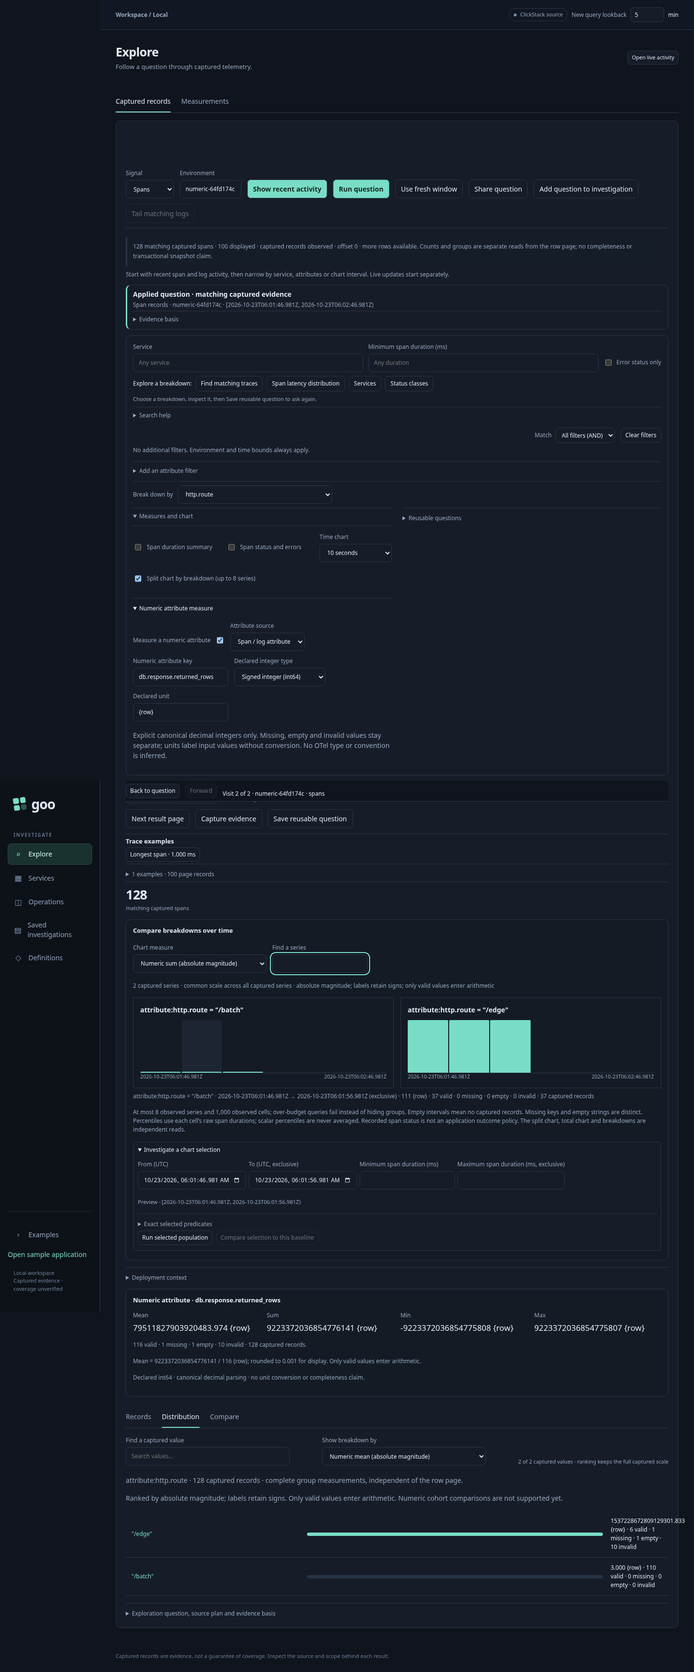
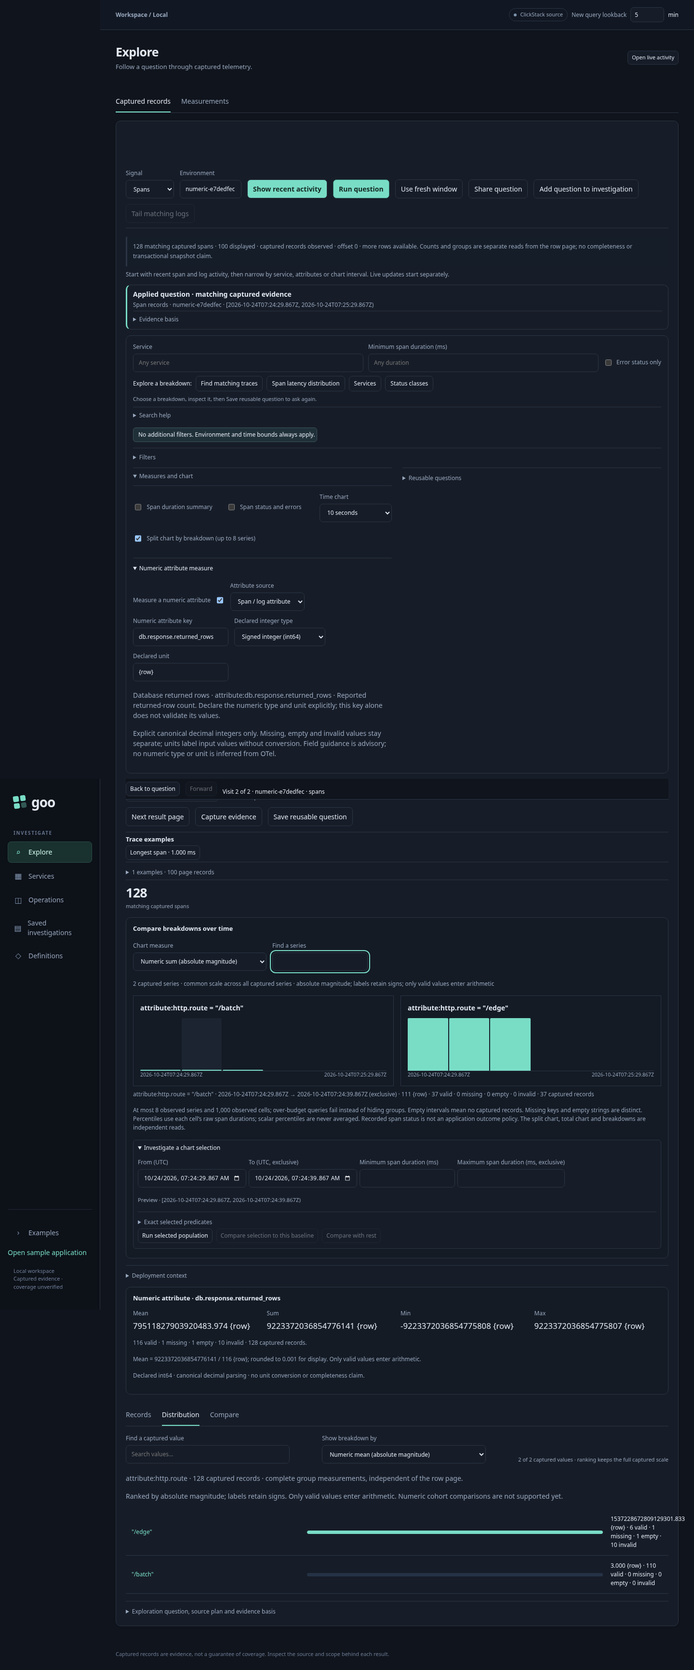
Guide numeric bindings with scoped exact field suggestions

diff --git a/ui/exploration.js b/ui/exploration.js
@@ -30,7 +30,7 @@
  const statusLabel=node('label');statusLabel.className='span-summary-control';const statusInput=node('input');statusInput.type='checkbox';statusInput.id=prefix+'exploreSpanStatus';statusInput.disabled=readOnly;statusLabel.append(statusInput,document.createTextNode('Span status and errors'));statusInput.onchange=()=>change();
  const bucketLabel=node('label','Time chart');const bucketInput=node('select');bucketInput.id=prefix+'exploreBucket';for(const [value,title] of [['0','Off'],['1000','1 second'],['10000','10 seconds'],['60000','1 minute'],['300000','5 minutes']]){const option=node('option',title);option.value=value;bucketInput.append(option)}bucketInput.disabled=readOnly;bucketLabel.append(bucketInput);el('exploreBuilder').append(bucketLabel);bucketInput.onchange=()=>change();const measureControls=node('div',undefined,'controls measure-controls');const measureHeading=node('h3','Measures and chart');measureControls.append(summaryLabel,statusLabel,bucketLabel);el('exploreBuilder').append(measureHeading,measureControls);
  const measures=ui.disclosure('Measures and chart',[measureControls]);measures.id=prefix+'measureComposer';measureHeading.remove();el('exploreBuilder').append(measures);
- const numericControls=global.GooNumericMeasures.mountControls(measures,{prefix,readOnly,change:()=>{change();numericControls.populate(inventory)}});
+ const numericControls=global.GooNumericMeasures.mountControls(measures,{prefix,readOnly,change:()=>{const fields=numericControls.suggestions();change();numericControls.populate(fields)}});
  const splitLabel=node('label');splitLabel.className='split-chart-control';const splitInput=node('input');splitInput.type='checkbox';splitInput.id=prefix+'exploreGroupTimeSeries';splitInput.disabled=readOnly;splitLabel.append(splitInput,document.createTextNode('Split chart by breakdown (up to 8 series)'));splitInput.onchange=()=>change();measureControls.append(splitLabel);
  const library=node('details');library.hidden=readOnly;library.className='reusable-questions';library.innerHTML='<summary>Reusable questions</summary><p>Saved telemetry packages reuse filters, measures and chart settings with a fresh window. They do not reopen frozen evidence.</p><div class="controls"><label>Find a question<input id="questionLibrarySearch" type="search"></label><button id="questionLibraryRefresh">Load saved questions</button></div><p id="questionLibraryStatus" role="status"></p><div id="questionLibraryRows"></div>';el('exploreBuilder').append(library);global.GooDOM?.namespace(library,prefix);let libraryGeneration=0,libraryItems=[];
  const questionLibrary=global.GooDefinitionLibrary.mount(el('questionLibraryRows'),{onSelectionChange:key=>{libraryGeneration++;el('questionLibraryStatus').textContent=key?'Revision selected. Run explicitly to read a fresh source window.':'Select a revision before running a fresh question.'},describe:item=>({family:'record',revision:item.revision,name:item.definition.name,title:item.definition.title,summary:item.definition.source.signal+' · '+item.definition.source.environment,search:[item.definition.title,item.definition.name,item.definition.source.environment,item.definition.source.signal,item.revision].join(' ')}),detail:item=>{const body=node('div'),run=node('button','Run '+item.definition.name);body.append(node('p',item.definition.lookbackMinutes+' min default lookback · Run reads a fresh source window, not saved evidence.'),run);run.onclick=async()=>{const g=++libraryGeneration;run.disabled=true;el('questionLibraryStatus').textContent='Resolving a fresh question window…';try{const response=await fetch('/api/telemetry-packages/plan',{method:'POST',headers:{'Content-Type':'application/json'},body:JSON.stringify({definition:item.definition})}),p=await response.json();if(g!==libraryGeneration||!active())return;if(!response.ok)throw Error(p.error);if(p.revision!==item.revision)throw Error('Resolved definition revision differs from selection.');global.dispatchEvent(new CustomEvent('goo:apply-telemetry-package',{detail:p}));el('questionLibraryStatus').textContent='Opened '+item.definition.title+' with a fresh source window.'}catch(e){if(g===libraryGeneration&&active())el('questionLibraryStatus').textContent='Question unavailable · '+e.message}finally{run.disabled=false}};return body}});
@@ -54,8 +54,8 @@
   function withFilters(q){if(filterError)throw Error(filterError);const where=draftWhere();global.GooFilterEditor.validate(where,q.signal);return {...q,reportedEdge:edgeScope?structuredClone(edgeScope):undefined,numeric:numericControls.get(),groupTimeSeries:splitInput.checked||undefined,bucketMs:Number(bucketInput.value)||undefined,spanStatus:el('exploreSignal').value==='spans'&&statusInput.checked||undefined,summary:el('exploreSignal').value==='spans'&&summaryInput.checked?'span-duration':undefined,where:global.GooFilterEditor.normalize(where),groupBy:filterEditor.grouping()};}
   async function fetchQuery(q,signal){const response=await global.GooQueries.post('/api/explore',q,signal);const data=await response.json();if(!response.ok)throw Error(data.error);return data;}
   function paint(data,q){el('exploreStatus').state=data.state==='changed_between_reads'?'partial':data.state==='no_data'?'empty':'unknown';numericControls.set(data.question.numeric);deployments.setQuestion(data.question);bucketInput.value=String(data.question.bucketMs||0);splitInput.checked=!!data.question.groupTimeSeries;summaryInput.checked=data.question.summary==='span-duration';statusInput.checked=!!data.question.spanStatus;question=data.question;lastResult=data;filterEditor.setGrouping(data.question.groupBy||[]);filterEditor.setSuggestions({...global.GooAttributes.suggestionData(data.rows,data.fields),label:'Applied '+q.signal+' · '+q.environment+' · '+new Date(q.fromMs).toISOString()+' → '+new Date(q.toMs).toISOString()});el('exploreCreatePackage').disabled=false;el('exploreSaveCapture').disabled=readOnly;populate(data.fields);suggest(data.fields);distributions.render(data);global.GooTraceJourney.examples(examplesHost,data,{openTrace:(id,anchor,opener)=>openTrace(data.question,id,anchor,data.basis,opener)});if(initialBaseline){distributions.setBaseline(initialBaseline);initialBaseline=null}el('exploreStatus').textContent=`${data.count} matching captured ${q.signal} · ${data.rows.length} displayed · ${data.state==='changed_between_reads'?'source reads changed; rerun before treating the results as one population':data.state==='no_data'?'no captured records in count read':'captured records observed'} · offset ${q.offset}${data.hasMore?' · more rows available':''}${q.offset>=1000&&data.hasMore?' · paging budget reached; narrow query':''}${data.fieldsLimited?' · field discovery limited; absence from this list is not absence from data':''}. Counts and groups are separate reads from the row page; no completeness or transactional snapshot claim.`;el('exploreNext').disabled=!data.hasMore||q.offset>=1000;table(el('exploreRows'),data.rows,q.signal,data.question,data.basis,{resultToken:readOnly?null:data.resultToken});recordResults.groups(el('exploreGroups'),data);el('exploreExplain').textContent=JSON.stringify({question:q,basis:data.basis,plan:data.plan,numeric:data.numeric,duration:data.duration,spanStatus:data.spanStatus,groups:data.groups,timeSeries:data.timeSeries,groupedTimeSeries:data.groupedTimeSeries,warnings:data.warnings},null,2);}
-  async function run(q){filterEditor.setGroupingFields([]);valueLookup?.invalidate();filterEditor.setSuggestions();population?.invalidate();tail?.reset();let token;try{token=session.start(q)}catch(e){el('exploreStatus').textContent=e.message;return}renderSession();recipeUI?.invalidate();deployments.invalidate();runController?.abort();runController=new AbortController();const controller=runController;el('exploreCancel').hidden=false;const g=generation=token;if(!readOnly){remember(q)}lastResult=null;el('exploreSaveCapture').disabled=true;el('discoverySuggestions').replaceChildren();el('exploreCreatePackage').disabled=true;distributions.invalidate();el('exploreRows').replaceChildren();el('exploreGroups').replaceChildren();recordResults.invalidate();el('surroundingContext').hidden=true;el('exploreContext').hidden=true;el('exploreRun').disabled=true;el('exploreNext').disabled=true;el('exploreStatus').state='loading';el('exploreStatus').textContent='Reading captured records…';try{const data=await fetchQuery(q,controller.signal);if(!session.publish(g,data))return;paint(data,q);renderSession()}catch(e){if(session.fail(g)){distributions.invalidate();renderSession();el('exploreRows').replaceChildren();el('exploreGroups').replaceChildren();el('exploreExplain').textContent='';el('exploreStatus').state='unavailable';el('exploreStatus').textContent='Evidence unavailable · '+e.message}}finally{if(g===generation){el('exploreRun').disabled=false;el('exploreCancel').hidden=true}}}
-  function change(scopeChanged=false){filterEditor.setGroupingFields([]);valueLookup?.invalidate();filterEditor.setSuggestions();population?.invalidate();tail?.reset();const shared=el('exploreQuestionLink');if(shared)shared.hidden=true;generation=session.edit(scopeChanged);renderSession();recipeUI?.invalidate();deployments.invalidate();runController?.abort();el('exploreCancel').hidden=true;lastResult=null;el('exploreSaveCapture').disabled=true;el('exploreCreatePackage').disabled=true;distributions.invalidate({scopeChanged});recordResults.invalidate();el('surroundingContext').hidden=true;el('discoverySuggestions').replaceChildren();question=null;el('exploreRun').disabled=!!filterError;el('exploreNext').disabled=true;el('exploreRows').replaceChildren();el('exploreGroups').replaceChildren();el('exploreContext').hidden=true;el('exploreExplain').textContent='';el('exploreStatus').state='unknown';el('exploreStatus').textContent='Question changed. Draft changes — Run question to apply.';}
+  async function run(q){numericControls.populate([]);filterEditor.setGroupingFields([]);valueLookup?.invalidate();filterEditor.setSuggestions();population?.invalidate();tail?.reset();let token;try{token=session.start(q)}catch(e){el('exploreStatus').textContent=e.message;return}renderSession();recipeUI?.invalidate();deployments.invalidate();runController?.abort();runController=new AbortController();const controller=runController;el('exploreCancel').hidden=false;const g=generation=token;if(!readOnly){remember(q)}lastResult=null;el('exploreSaveCapture').disabled=true;el('discoverySuggestions').replaceChildren();el('exploreCreatePackage').disabled=true;distributions.invalidate();el('exploreRows').replaceChildren();el('exploreGroups').replaceChildren();recordResults.invalidate();el('surroundingContext').hidden=true;el('exploreContext').hidden=true;el('exploreRun').disabled=true;el('exploreNext').disabled=true;el('exploreStatus').state='loading';el('exploreStatus').textContent='Reading captured records…';try{const data=await fetchQuery(q,controller.signal);if(!session.publish(g,data))return;paint(data,q);renderSession()}catch(e){if(session.fail(g)){distributions.invalidate();renderSession();el('exploreRows').replaceChildren();el('exploreGroups').replaceChildren();el('exploreExplain').textContent='';el('exploreStatus').state='unavailable';el('exploreStatus').textContent='Evidence unavailable · '+e.message}}finally{if(g===generation){el('exploreRun').disabled=false;el('exploreCancel').hidden=true}}}
+  function change(scopeChanged=false){numericControls.populate([]);filterEditor.setGroupingFields([]);valueLookup?.invalidate();filterEditor.setSuggestions();population?.invalidate();tail?.reset();const shared=el('exploreQuestionLink');if(shared)shared.hidden=true;generation=session.edit(scopeChanged);renderSession();recipeUI?.invalidate();deployments.invalidate();runController?.abort();el('exploreCancel').hidden=true;lastResult=null;el('exploreSaveCapture').disabled=true;el('exploreCreatePackage').disabled=true;distributions.invalidate({scopeChanged});recordResults.invalidate();el('surroundingContext').hidden=true;el('discoverySuggestions').replaceChildren();question=null;el('exploreRun').disabled=!!filterError;el('exploreNext').disabled=true;el('exploreRows').replaceChildren();el('exploreGroups').replaceChildren();el('exploreContext').hidden=true;el('exploreExplain').textContent='';el('exploreStatus').state='unknown';el('exploreStatus').textContent='Question changed. Draft changes — Run question to apply.';}
   function discoveryMode(){summaryLabel.hidden=statusLabel.hidden=el('exploreSignal').value!=='spans';const logs=el('exploreSignal').value==='logs';el('discoveryHeading').textContent=logs?'Search logs':'Find spans and traces';el('discoveryHint').textContent=logs?'Read messages, follow exact trace IDs or open time context.':'Matching spans lead to trace IDs and captured duration distributions.';for(const n of container.querySelectorAll('.log-search-control'))n.hidden=!logs;for(const n of container.querySelectorAll('.span-search-control'))n.hidden=logs;el('discoverySuggestions').replaceChildren()}
   function suggest(fields){const host=el('discoverySuggestions');host.replaceChildren(node('span','Explore a breakdown:'));const signal=question?.signal||el('exploreSignal').value;
    const candidates=signal==='spans'?[['column','trace_id','Find matching traces'],['column','duration_bucket','Span latency distribution'],['column','service','Services'],['column','status_class','Status classes']]:[['column','severity','Severity'],['column','service','Services'],['attribute','exception.type','Exception types']];

diff --git a/journeys/numeric-measures.spec.js b/journeys/numeric-measures.spec.js
@@ -2,7 +2,7 @@ const {openMeasures}=require('./support/explore');
 const {test,expect}=require('@playwright/test'),{randomBytes}=require('node:crypto'),fs=require('node:fs/promises'),path=require('node:path');const {verifyWithGo,startBombadil}=require('./support/cross-app');const base='http://127.0.0.1:8088';
 async function json(r){expect(r.ok(),await r.text()).toBe(true);return r.json()}
 test('44 measure ordinary numeric attributes, explain coverage, capture and reuse',async({page,request})=>{
- test.setTimeout(240000);const environment='numeric-'+randomBytes(4).toString('hex'),now=Date.now(),from=now-60000,trace=randomBytes(16).toString('hex');const values=['9223372036854775807','9223372036854775807','-9223372036854775808','0','-5','10',null,'','01','-0','+1','1e3','18446744073709551615','18446744073709551616','-9223372036854775809','NaN',' 1','1.0',...Array(110).fill('3')];const attrs=o=>Object.entries(o).map(([key,value])=>({key,value:{stringValue:value}}));
+ test.setTimeout(240000);page.setDefaultTimeout(15000);const environment='numeric-'+randomBytes(4).toString('hex'),now=Date.now(),from=now-60000,trace=randomBytes(16).toString('hex');const values=['9223372036854775807','9223372036854775807','-9223372036854775808','0','-5','10',null,'','01','-0','+1','1e3','18446744073709551615','18446744073709551616','-9223372036854775809','NaN',' 1','1.0',...Array(110).fill('3')];const attrs=o=>Object.entries(o).map(([key,value])=>({key,value:{stringValue:value}}));
  const resource={attributes:attrs({'service.name':'ordinary-query','deployment.environment.name':environment,'custom.offset':'-7'})};
  const spanAttrs=(v,i)=>attrs({'http.route':i<18?'/edge':'/batch',...(v===null?{}:{'db.response.returned_rows':v})});
  const spans=values.map((v,i)=>{const start=BigInt(from+1000+(i%3)*10000)*1000000n+BigInt(i);return {traceId:trace,spanId:(i+1).toString(16).padStart(16,'0'),name:'database response',kind:3,startTimeUnixNano:String(start),endTimeUnixNano:String(start+1000000n),attributes:spanAttrs(v,i)}});
@@ -11,7 +11,7 @@ test('44 measure ordinary numeric attributes, explain coverage, capture and reus
  const initial={signal:'spans',environment,fromMs:from,toMs:now,limit:100,offset:0,bucketMs:10000,groupTimeSeries:true,groupBy:[{kind:'attribute',key:'http.route'}]};
  await expect.poll(async()=>{const r=await request.post(base+'/api/explore',{data:initial});return r.ok()&&(await r.json()).count},{timeout:45000,intervals:[1000]}).toBe('128');
  let reads=0;const errors=[];page.on('pageerror',e=>errors.push(e.message));page.on('request',r=>{if(r.method()==='POST'&&['/api/explore','/api/captures','/api/measurements'].some(p=>r.url().endsWith(p)))reads++});await page.goto(base+'/#questions');await page.locator('#minutes').fill('5');await page.locator('#minutes').blur();let response=page.waitForResponse(r=>r.url().endsWith('/api/explore'));await page.evaluate(q=>dispatchEvent(new CustomEvent('goo:open-question',{detail:q})),initial);await response;await expect(page.locator('#exploreCount')).toContainText('128');
- await page.locator('#baselinePin').click();await page.locator('#baselineClear').locator('xpath=ancestor::details[1]').locator(':scope > summary').click();await expect(page.locator('#baselineClear')).toBeVisible();await openMeasures(page);await page.locator('#measureComposer > .numeric-binding-editor > summary').click();await page.locator('#numericEnabled').check();await page.locator('#numericKey').fill('db.response.returned_rows');await page.locator('#numericType').selectOption('int64');await page.locator('#numericUnit').fill('{row}');response=page.waitForResponse(r=>r.url().endsWith('/api/explore'));await page.locator('#exploreRun').click();const result=await json(await response),q=result.question;expect(result.count).toBe('128');expect(result.rows).toHaveLength(100);expect(result.numeric).toMatchObject({valid:'116',missing:'1',empty:'1',invalid:'10',sum:'9223372036854776141'});expect(result.groupedTimeSeries).toHaveLength(2);await expect(page.locator('#numericSummary')).toContainText('116 valid · 1 missing · 1 empty · 10 invalid');
+ await page.locator('#baselinePin').click();await page.locator('#baselineClear').locator('xpath=ancestor::details[1]').locator(':scope > summary').click();await expect(page.locator('#baselineClear')).toBeVisible();await openMeasures(page);await page.locator('#measureComposer > .numeric-binding-editor > summary').click();const authoringReads=reads;await page.locator('#numericEnabled').check();await expect(page.locator('#numericKeys option[value="db.response.returned_rows"]')).toHaveAttribute('label',/Database returned rows/);await page.locator('#numericKind').selectOption('resource');await expect(page.locator('#numericKeys option[value="custom.offset"]')).toHaveCount(1);await expect(page.locator('#numericKeys option[value="db.response.returned_rows"]')).toHaveCount(0);await page.locator('#numericKind').selectOption('attribute');await expect(page.locator('#numericType')).toHaveValue('int64');await expect(page.locator('#numericUnit')).toHaveValue('');await page.locator('#numericKey').fill('db.response.returned_rows');await expect(page.locator('#numericFieldGuidance')).toContainText('Declare the numeric type and unit explicitly');expect(reads).toBe(authoringReads);await page.locator('#numericType').selectOption('int64');await page.locator('#numericUnit').fill('{row}');response=page.waitForResponse(r=>r.url().endsWith('/api/explore'));await page.locator('#exploreRun').click();const result=await json(await response),q=result.question;expect(q.numeric).toEqual({field:{kind:'attribute',key:'db.response.returned_rows'},type:'int64',unit:'{row}',parse:'canonical-decimal'});expect(q.fromMs).toBe(initial.fromMs);expect(q.toMs).toBe(initial.toMs);expect(result.count).toBe('128');expect(result.rows).toHaveLength(100);expect(result.numeric).toMatchObject({valid:'116',missing:'1',empty:'1',invalid:'10',sum:'9223372036854776141'});expect(result.groupedTimeSeries).toHaveLength(2);await expect(page.locator('#numericSummary')).toContainText('116 valid · 1 missing · 1 empty · 10 invalid');
  await expect(page.locator('#baselineClear')).toBeHidden();await expect(page.locator('#baselineStatus')).toContainText('Numeric cohort comparisons are not supported');
  const plan=await json(await request.post(base+'/api/telemetry-packages/draft',{data:{question:q,name:environment,title:'Database response values',lookbackMinutes:5}}));expect(plan.measurePlan.numeric).toEqual(q.numeric);
  const before=reads;await page.locator('#distributionMeasure').selectOption('numeric-mean');await page.getByLabel('Grouped chart measure',{exact:true}).selectOption('numeric-sum');await page.getByLabel('Find a captured series',{exact:true}).fill('/batch');await expect(page.locator('#timeChart .series-card:visible')).toHaveCount(1);await page.locator('#timeChart .series-card:visible .time-bar[data-state=observed]').first().click();await expect(page.locator('#timeChart .series-interval-detail')).toContainText('{row}');await page.getByLabel('Find a captured series',{exact:true}).fill('');expect(reads).toBe(before);const afterLocal=reads;await page.screenshot({path:'docs/journeys/screenshots/44a-numeric-coverage-and-series.png',fullPage:true});
@@ -20,6 +20,8 @@ test('44 measure ordinary numeric attributes, explain coverage, capture and reus
  const unsigned=await json(await request.post(base+'/api/explore',{data:{...q,numeric:{...q.numeric,type:'uint64'}}}));
  let logs;await expect.poll(async()=>{const r=await request.post(base+'/api/explore',{data:{...q,signal:'logs'}});if(r.ok())logs=await r.json();return logs?.count},{timeout:45000,intervals:[1000]}).toBe('128');expect(logs.numeric).toEqual(result.numeric);
  const resourceResult=await json(await request.post(base+'/api/explore',{data:{...q,numeric:{field:{kind:'resource',key:'custom.offset'},type:'int64',unit:'1',parse:'canonical-decimal'}}}));expect(resourceResult.numeric).toMatchObject({valid:'128',sum:'-896',min:'-7',max:'-7'});
+ const beforeScopeEdit=reads;await page.locator('#exploreEnvironment').fill(environment+'-other');await expect(page.locator('#numericKeys option')).toHaveCount(0);await expect(page.locator('#numericKey')).toHaveValue('db.response.returned_rows');expect(reads).toBe(beforeScopeEdit);await page.locator('#exploreEnvironment').fill(environment);await expect(page.locator('#numericKeys option')).toHaveCount(0);
+ let release,arrive;const held=new Promise(r=>arrive=r),gate=new Promise(r=>release=r);await page.route('**/api/explore',async route=>{const upstream=await route.fetch();arrive();await gate;try{await route.fulfill({response:upstream})}catch{}});await page.locator('#exploreRun').click();await held;await page.locator('#exploreEnvironment').fill(environment+'-other');release();await page.unrouteAll({behavior:'wait'});await expect(page.locator('#exploration')).toHaveAttribute('data-question-phase','draft');await expect(page.locator('#numericKeys option')).toHaveCount(0);await page.route('**/api/explore',route=>route.abort('failed'));await page.locator('#exploreRun').click();await expect(page.locator('#exploration')).toHaveAttribute('data-question-phase','failed');await expect(page.locator('#numericKeys option')).toHaveCount(0);await page.unrouteAll({behavior:'wait'});
  const beforeReopen=reads;await page.goto(base+'/#capture='+saved.receipt.id);await expect(page.locator('#savednumericSummary')).toContainText('116 valid');const reopened=await json(await request.get(base+'/api/captures/'+saved.receipt.id));expect(reopened).toEqual(saved);expect(reads).toBe(beforeReopen);const afterReopen=reads;await page.locator('#savedresultDistribution').click();await page.setViewportSize({width:390,height:844});expect(await page.evaluate(()=>document.documentElement.scrollWidth<=innerWidth)).toBe(true);await page.screenshot({path:'docs/journeys/screenshots/44c-mobile-numeric-evidence.png',fullPage:true});expect(errors).toEqual([]);
  const dir=path.resolve('artifacts/numeric-measures',environment);await fs.mkdir(dir,{recursive:true});const ledger=path.join(dir,'ledger.json');await fs.writeFile(ledger,JSON.stringify({plan,result,saved,reused,reopened,unsigned,logs,resourceResult,values,times:spans.map(s=>s.startTimeUnixNano),before,afterLocal,beforeReopen,afterReopen}));await verifyWithGo(dir,'TestQuintNumericLiveLedger',{GOO_NUMERIC_LEDGER:ledger});
  if(process.env.GOO_NUMERIC_BOMBADIL==='1'){const actor=await startBombadil({dir:path.join(dir,'bombadil'),url:base+'/#capture='+saved.receipt.id,specification:'verification/bombadil/numeric-measures.ts',seconds:30});try{await actor.finish()}finally{await actor.stop()}}

diff --git a/ui/numeric-measures.js b/ui/numeric-measures.js
@@ -4,13 +4,16 @@
  function format(summary,metric='mean') {const v=value(summary,metric);if(!v)return 'Unavailable';if(metric!=='mean')return String(v.n)+' '+summary.unit;const negative=v.n<0n,n=negative?-v.n:v.n,rounded=(n*1000n+v.d/2n)/v.d;return (negative&&rounded!==0n?'−':'')+String(rounded/1000n)+'.'+String(rounded%1000n).padStart(3,'0')+' '+summary.unit}
  function magnitude(v){return v?{n:v.n<0n?-v.n:v.n,d:v.d}:null}
  function coverage(s){return s.valid+' valid · '+s.missing+' missing · '+s.empty+' empty · '+s.invalid+' invalid'}
+ const fieldsAPI=()=>typeof module!=='undefined'?require('./field-presentation'):global.GooFieldPresentation;
+ function fieldSuggestions(fields=[],kind='attribute'){const seen=new Set();return fields.filter(f=>f&&['attribute','resource'].includes(kind)&&f.kind===kind&&typeof f.key==='string'&&f.key.length&&new TextEncoder().encode(f.key).length<=128&&!f.key.includes('\0')).filter(f=>{if(seen.has(f.key))return false;seen.add(f.key);return true}).map(field=>{const hint=fieldsAPI()?.hint(field);return {field:structuredClone(field),label:(hint?hint.label+(hint.legacy?' (legacy)':'')+' · ':'')+field.kind+':'+field.key,...(hint?{description:hint.description}:{})}})}
  function mountControls(host,{prefix='',readOnly=false,change}={}){
-  const node=(tag,text)=>{const n=document.createElement(tag);if(text!==undefined)n.textContent=text;return n},details=node('details');details.className='numeric-binding-editor';details.append(node('summary','Numeric attribute measure'));const controls=node('div');controls.className='controls';const inputs={};
-  function input(key,title,type,options){const label=node('label',title),i=node(type==='select'?'select':'input');i.id=prefix+'numeric'+key;i.disabled=readOnly;if(type==='checkbox'){i.type='checkbox';label.className='split-chart-control'}if(options)for(const [value,text]of options){const o=node('option',text);o.value=value;i.append(o)}label.append(i);controls.append(label);inputs[key]=i;if(type==='select'||type==='checkbox')i.onchange=()=>change();else i.oninput=()=>change();return i}
-  input('Enabled','Measure a numeric attribute','checkbox');input('Kind','Attribute source','select',[['attribute','Span / log attribute'],['resource','Resource attribute']]);const key=input('Key','Numeric attribute key','text');key.placeholder='e.g. db.response.returned_rows';const list=node('datalist');list.id=prefix+'numericKeys';key.setAttribute('list',list.id);controls.append(list);input('Type','Declared integer type','select',[['int64','Signed integer (int64)'],['uint64','Unsigned integer (uint64)']]);const unit=input('Unit','Declared unit','text');unit.placeholder='e.g. {row} or 1';
-  details.append(controls,node('p','Explicit canonical decimal integers only. Missing, empty and invalid values stay separate; units label input values without conversion. No OTel type or convention is inferred.'));host.append(details);
-  return {get(){if(!inputs.Enabled.checked)return undefined;return {field:{kind:inputs.Kind.value,key:key.value},type:inputs.Type.value,unit:unit.value,parse:'canonical-decimal'}},set(b){inputs.Enabled.checked=!!b;inputs.Kind.value=b?.field.kind||'attribute';key.value=b?.field.key||'';inputs.Type.value=b?.type||'int64';unit.value=b?.unit||'';details.open=!!b},populate(fields){list.replaceChildren();for(const f of fields.filter(f=>f.kind===inputs.Kind.value)){const o=node('option');o.value=f.key;list.append(o)}}};
+  const node=(tag,text)=>{const n=document.createElement(tag);if(text!==undefined)n.textContent=text;return n},details=node('details');details.className='numeric-binding-editor';details.append(node('summary','Numeric attribute measure'));const controls=node('div');controls.className='controls';const inputs={};let suppliedFields=[];const guidance=node('p');guidance.className='numeric-field-guidance';guidance.id=prefix+'numericFieldGuidance';guidance.hidden=true;
+  function input(key,title,type,options){const label=node('label',title),i=node(type==='select'?'select':'input');i.id=prefix+'numeric'+key;i.disabled=readOnly;if(type==='checkbox'){i.type='checkbox';label.className='split-chart-control'}if(options)for(const [value,text]of options){const o=node('option',text);o.value=value;i.append(o)}label.append(i);controls.append(label);inputs[key]=i;if(type==='select'||type==='checkbox')i.onchange=()=>{refresh();change()};else i.oninput=()=>{refresh();change()};return i}
+  input('Enabled','Measure a numeric attribute','checkbox');input('Kind','Attribute source','select',[['attribute','Span / log attribute'],['resource','Resource attribute']]);const key=input('Key','Numeric attribute key','text');key.placeholder='e.g. db.response.returned_rows';const list=node('datalist');list.id=prefix+'numericKeys';key.setAttribute('list',list.id);key.setAttribute('aria-describedby',guidance.id);controls.append(list);input('Type','Declared integer type','select',[['int64','Signed integer (int64)'],['uint64','Unsigned integer (uint64)']]);const unit=input('Unit','Declared unit','text');unit.placeholder='e.g. {row} or 1';
+  function refresh(){list.replaceChildren();for(const item of fieldSuggestions(suppliedFields,inputs.Kind.value)){const option=node('option',item.label);option.value=item.field.key;option.label=item.label;list.append(option)}const hint=fieldsAPI()?.hint({kind:inputs.Kind.value,key:key.value});key.title=hint?hint.label+' · '+hint.description:'';guidance.hidden=!hint;guidance.textContent=hint?hint.label+' · '+inputs.Kind.value+':'+key.value+' · '+hint.description:''}
+  details.append(controls,guidance,node('p','Explicit canonical decimal integers only. Missing, empty and invalid values stay separate; units label input values without conversion. Field guidance is advisory; no numeric type or unit is inferred from OTel.'));host.append(details);
+  return {get(){if(!inputs.Enabled.checked)return undefined;return {field:{kind:inputs.Kind.value,key:key.value},type:inputs.Type.value,unit:unit.value,parse:'canonical-decimal'}},set(b){inputs.Enabled.checked=!!b;inputs.Kind.value=b?.field.kind||'attribute';key.value=b?.field.key||'';inputs.Type.value=b?.type||'int64';unit.value=b?.unit||'';details.open=!!b;refresh()},suggestions:()=>structuredClone(suppliedFields),populate(fields=[]){suppliedFields=structuredClone(fields);refresh()}};
  }
  function render(host,data){host.replaceChildren();host.hidden=!data.numeric;if(!data.numeric)return;const s=data.numeric,node=(tag,text)=>{const n=document.createElement(tag);n.textContent=text;return n};host.append(node('h3','Numeric attribute · '+data.question.numeric.field.key));const grid=document.createElement('dl');grid.className='duration-stat-grid';for(const [label,metric]of [['Mean','mean'],['Sum','sum'],['Min','min'],['Max','max']]){const cell=document.createElement('div');cell.append(node('dt',label),node('dd',format(s,metric)));grid.append(cell)}host.append(grid,node('p',coverage(s)+' · '+s.count+' captured records.'),node('p',s.valid==='0'?(s.state==='no_data'?'No captured records.':'No valid numeric values. Arithmetic is unavailable.'):'Mean = '+s.sum+' / '+s.valid+' '+s.unit+'; rounded to 0.001 for display. Only valid values enter arithmetic.'));host.append(node('p','Declared '+data.question.numeric.type+' · canonical decimal parsing · no unit conversion or completeness claim.'+(data.state==='changed_between_reads'?' Source reads disagree; rerun before treating totals and breakdowns as one population.':'')))}
- const api={value,format,magnitude,coverage,mountControls,render};if(typeof module!=='undefined')module.exports=api;else global.GooNumericMeasures=api;
+ const api={value,format,magnitude,coverage,fieldSuggestions,mountControls,render};if(typeof module!=='undefined')module.exports=api;else global.GooNumericMeasures=api;
 })(typeof window==='undefined'?globalThis:window);

diff --git a/tests/numeric-measures.test.js b/tests/numeric-measures.test.js
@@ -1,3 +1,4 @@
 const {test}=require('node:test'),assert=require('node:assert/strict');const numeric=require('../ui/numeric-measures.js');global.GooNumericMeasures=numeric;const distributions=require('../ui/distributions.js');
 test('numeric display retains exact signed integers and valid-only rational means',()=>{const s={valid:'2',sum:'-18446744073709551615',min:'-9223372036854775808',max:'1',unit:'1'};assert.equal(numeric.format(s,'sum'),'-18446744073709551615 1');assert.equal(numeric.format(s),'−9223372036854775807.500 1');assert.equal(numeric.format({...s,valid:'0'}),'Unavailable');assert.equal(numeric.format({...s,valid:'1',sum:'0'}),'0.000 1');assert.deepEqual(distributions.groupMetric({numeric:s},'numeric-mean'),{n:18446744073709551615n,d:2n});assert.equal(distributions.metricWidth(distributions.groupMetric({numeric:s},'numeric-mean'),{n:18446744073709551615n,d:1n}),'50.00')});
 test('numeric coverage reports all distinct exclusions',()=>{assert.equal(numeric.coverage({valid:'3',missing:'2',empty:'1',invalid:'4'}),'3 valid · 2 missing · 1 empty · 4 invalid')});
+test('numeric field guidance preserves exact namespaces and never declares types or units',()=>{const fields=[{kind:'attribute',key:'db.response.returned_rows'},{kind:'attribute',key:'http.method'},{kind:'resource',key:'http.method'},{kind:'column',key:'duration_ns'},{kind:'attribute',key:'db.response.returned_rows'}],before=structuredClone(fields),items=numeric.fieldSuggestions(fields,'attribute');assert.deepEqual(items.map(i=>i.field.key),['db.response.returned_rows','http.method']);assert.match(items[0].label,/Database returned rows/);assert.match(items[1].label,/legacy/);for(const item of items){assert.equal('type' in item,false);assert.equal('unit' in item,false)}assert.deepEqual(numeric.fieldSuggestions(fields,'resource').map(i=>i.field),[{kind:'resource',key:'http.method'}]);assert.deepEqual(numeric.fieldSuggestions(fields,'column'),[]);items[0].field.key='mutated';assert.deepEqual(fields,before);assert.deepEqual(numeric.fieldSuggestions([{kind:'attribute',key:'bad\0'}]),[])});

diff --git a/ui/field-presentation.js b/ui/field-presentation.js
@@ -17,6 +17,7 @@
   ['attribute','rpc.response.status_code','RPC response status','RPC','RPC response code; interpretation depends on the RPC system, not span status.'],
   ['attribute','db.system.name','Database system','Database','Database product, such as PostgreSQL or Redis.'],
   ['attribute','db.namespace','Database namespace','Database','Database namespace being accessed; interpretation depends on the database system.'],
+  ['attribute','db.response.returned_rows','Database returned rows','Database','Reported returned-row count. Declare the numeric type and unit explicitly; this key alone does not validate its values.'],
   ['attribute','db.operation.name','Database operation','Database','Reported database operation, such as SELECT or GET.'],
   ['attribute','db.collection.name','Database collection','Database','Collection or table being accessed, where reported.'],
   ['attribute','messaging.system','Messaging system','Messaging','Messaging product or system used for this operation.'],

diff --git a/docs/NUMERIC_ATTRIBUTE_PLANNING.md b/docs/NUMERIC_ATTRIBUTE_PLANNING.md
@@ -10,7 +10,7 @@ split charts and immutable captures. Native metric kernels remain separate.
 
 In Explore, expand **Numeric attribute measure** under Measures and chart. Enable
 it, choose record or resource attributes, enter a key, declare int64 or uint64 and
-a unit, then Apply question. Available keys are suggestions; custom keys can be
+a unit, then Run. Available keys are suggestions; custom keys can be
 entered even when bounded inventory did not discover them. Missing/empty/invalid
 values remain visible beside arithmetic. Units label inputs; no rescaling occurs.
 
@@ -131,3 +131,26 @@ This fixture is integration evidence, not production traffic or OTel completenes
 
 Next: multiple named measures, explicit decimal/float policies, unit conversions
 and numeric cohort comparisons. Databricks raw-source lowering remains future work.
+
+## Field guidance — reviewed 2026-10-24
+
+The numeric editor shares the field-presentation catalog while retaining its own
+explicit binding controls. Attribute and resource suggestions show readable labels
+and exact raw keys in separate namespaces; custom keys remain supported. The
+returned-row semantic-convention hint is advisory: neither numeric type nor unit
+is inferred. Binding-only edits preserve the numeric editor's detached suggestion
+snapshot. Population changes, new reads and failures clear suggestions; canceled
+responses cannot restore a prior scope's inventory. Editing does not read sources.
+
+```mermaid
+flowchart LR
+  R[Successful scoped read] --> I[Detached field inventory]
+  I --> H[Exact namespace and readable hint]
+  H --> E[Explicit key / type / unit]
+  E --> G[Existing Go validation and plan]
+  S[Scope change / new read / failure] --> C[Withdraw suggestions]
+```
+
+Storyboard 44 now exercises namespace switching, unchanged explicit defaults,
+source-free edits, cancellation of an actual held response, failed-read withdrawal
+and immutable capture reuse. Updated frames 44a–44c show the running application.

diff --git a/VALIDATION.md b/VALIDATION.md
@@ -7945,3 +7945,17 @@ telemetry, captures, XTDB and volumes are preserved. Tests remove only their own
 stores. Compact ledgers/results remain under artifacts/composed-grouping,
 artifacts/population-breakdown, artifacts/facet-selection and
 artifacts/grouping-consolidation-round.
+
+
+## 2026-10-24 — M1 numeric field guidance (independently approved)
+
+Node syntax and numeric-measures, OTel hints and field-presentation suites pass.
+The real collector/ClickHouse journey `journeys/numeric-measures.spec.js` passes
+with `GOO_NUMERIC_BOMBADIL=1` (1 journey, 1.4 minutes). It checks exact namespace
+labels/raw keys, explicit unchanged type/unit, source-free authoring, full binding
+and fixed bounds, scope withdrawal, canceled actual upstream response, failed-read
+withdrawal, numeric coverage and immutable capture/reuse. Native
+`TestQuintNumericLiveLedger`, its rejecting controls, and saved-numeric Bombadil
+pass; compact evidence is in `artifacts/numeric-measures/numeric-e7dedfec`.
+Frames 44a–44c are regenerated. Independent milestone review approved code and
+final evidence with no blocking findings. No API/schema or backend change.

diff --git a/README.md b/README.md
@@ -3,6 +3,11 @@
 **Turn telemetry into shared definitions of system behavior, and investigate what
 happened with evidence you can inspect and preserve.**
 
+[Current reviewed roadmap](docs/ROADMAP_2026_10_24.md) · [Execution backlog](docs/BACKLOG_2026_10_24.md).
+
+Numeric authoring now provides exact namespace field guidance while keeping type
+and unit explicit; see [numeric measures](docs/NUMERIC_ATTRIBUTE_PLANNING.md).
+
 [API contract and usage](docs/API.md) · [OpenAPI 3.1](api/openapi.json) ·
 [Browsable API docs](http://localhost:8088/api-docs) (requires the current Python server).
 
